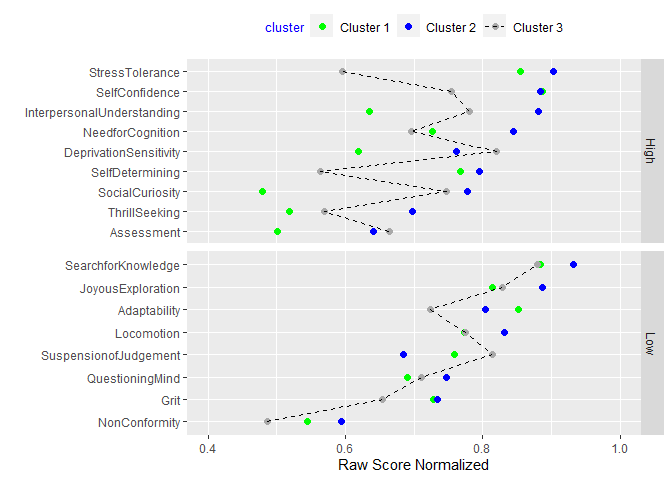
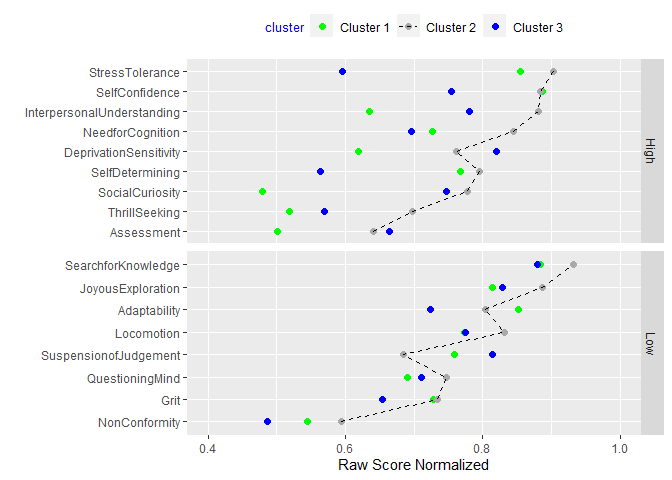
End of Day II

diff --git a/CATTCon_Personality_Dashboard.md b/CATTCon_Personality_Dashboard.md
@@ -78,9 +78,9 @@ Northrop Grumman CATTConV Survey Results
 
 ##### Cluster 2: “Fascinated”
 
-##### Cluster 3: “Avoiders”
+##### Cluster 3: “Problem Solvers”
 
-##### Cluster 4: “Problem Solvers”
+##### Cluster 4: “Avoiders”
 
 ![](CATTCon_Personality_Dashboard_files/figure-gfm/unnamed-chunk-8-1.png)<!-- -->
 
@@ -92,11 +92,11 @@ Northrop Grumman CATTConV Survey Results
 
 ![](CATTCon_Personality_Dashboard_files/figure-gfm/unnamed-chunk-9-1.png)<!-- -->
 
-##### The largest cluster, *Cluster xx*, generally scored high across all the dimensions.
+##### The largest cluster, *Cluster 2*, generally scored high across all the dimensions.
 
-##### Cluster xx, consists of respondents with significantly lower scores on Stress Tolerance, Self Determining, Thrill Seeking and higher Suspension of Judgement.
+##### Cluster 3, consists of respondents with significantly lower scores on Stress Tolerance, Self Determining, Thrill Seeking and higher Suspension of Judgement.
 
-##### Cluster xx, consists of respondents with significantly lower scores on Social Curiosity, Interpersonal Understanding, Thrill Seeking, Deprivation Sensitivity, and Assessment.
+##### Cluster 1, consists of respondents with significantly lower scores on Social Curiosity, Interpersonal Understanding, Thrill Seeking, Deprivation Sensitivity, and Assessment.
 
 ##### Little variability was observed between personality clusters in the following dimensions: Non-Conformity, Search for Knowledge, Joyous Exploration, Questioning Mind, Locomotion, Adaptability, Grit, Suspension of Judgement.
 
